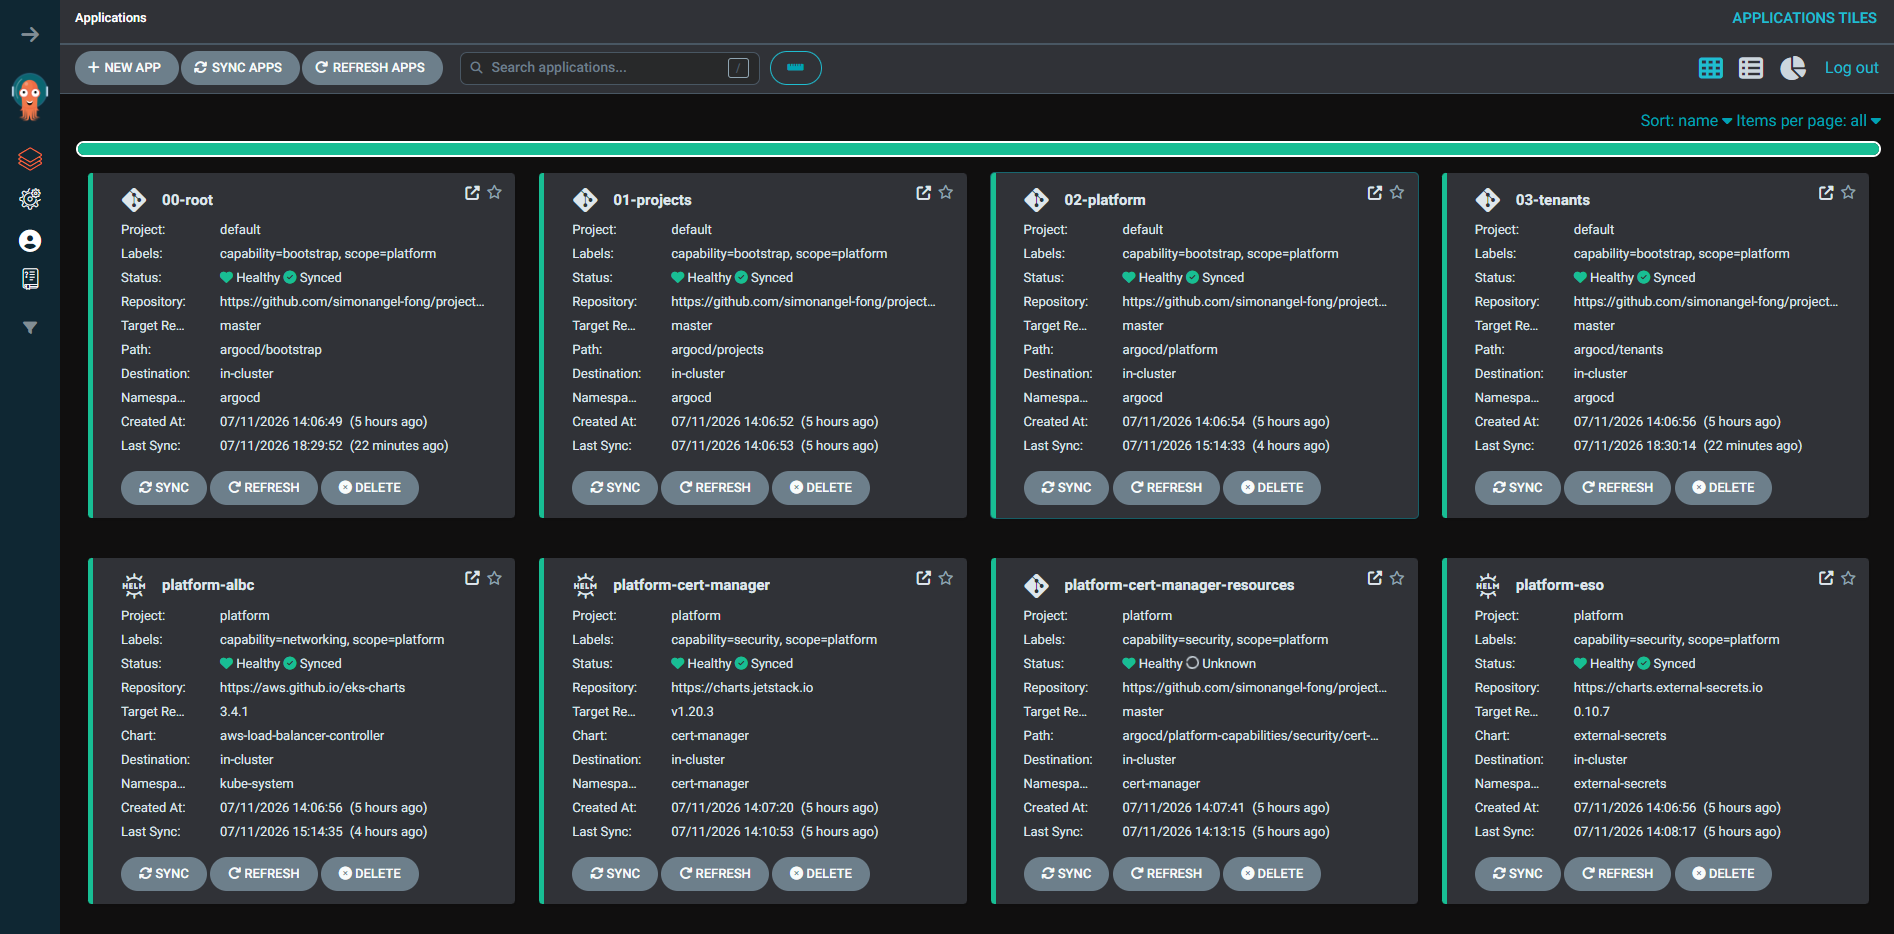
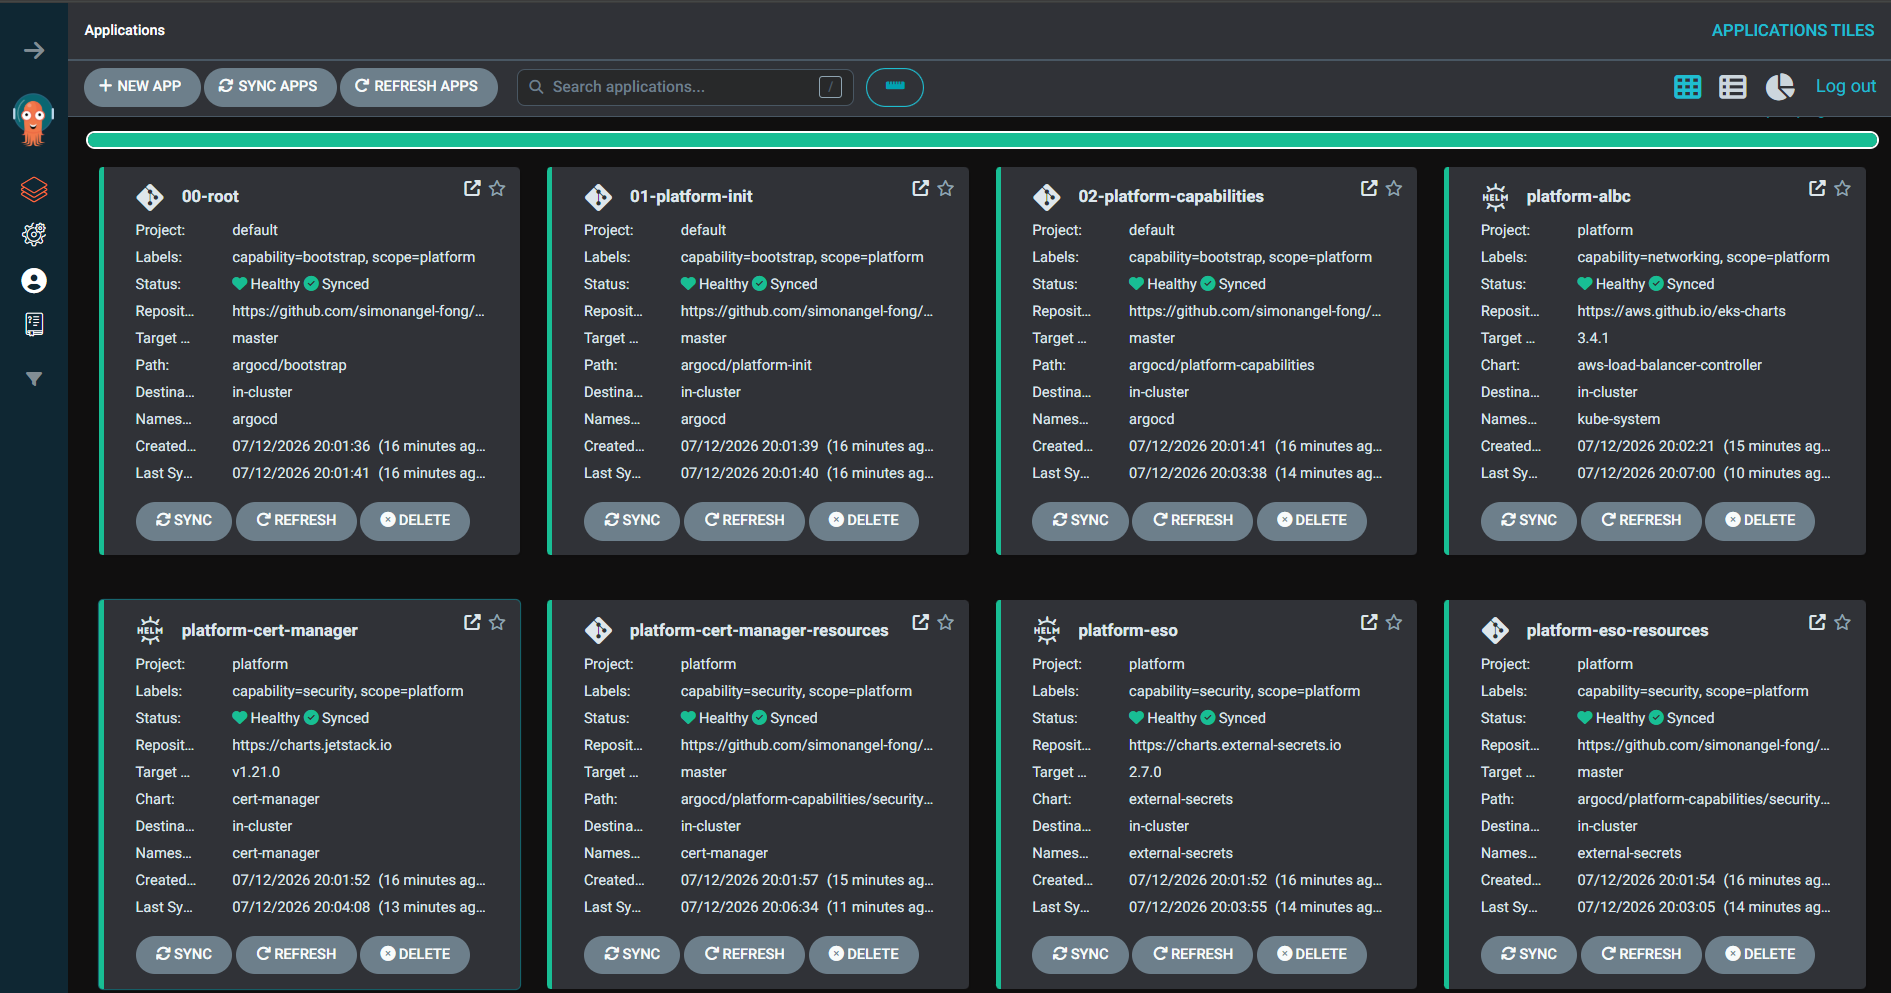
demo: team a, team b

diff --git a/docs/dev/03-capabilities.md b/docs/dev/03-capabilities.md
@@ -13,23 +13,54 @@
 ## Compute
 
 ```sh
+kubectl get nodepool
+# NAME       NODECLASS   NODES   READY   AGE
+# database   database    0       True    17m
+# general    general     1       True    17m
+# gpu        gpu         0       True    17m
 
+kubectl get ec2nodeclass
+# NAME       READY   AGE
+# database   True    17m
+# general    True    17m
+# gpu        True    17m
+
+kubectl get nodeclaim
+# NAME            TYPE        CAPACITY    ZONE            NODE                                           READY   AGE
+# general-jdtxw   m5a.large   on-demand   ca-central-1b   ip-10-0-11-205.ca-central-1.compute.internal   True    17m
+
+kubectl get nodes -L workload-class,karpenter.sh/nodepool,node.kubernetes.io/instance-type
+# NAME                                           STATUS   ROLES    AGE   VERSION               WORKLOAD-CLASS   NODEPOOL   INSTANCE-TYPE
+# ip-10-0-10-139.ca-central-1.compute.internal   Ready    <none>   32m   v1.36.2-eks-8f14419   platform                    t3.medium
+# ip-10-0-11-205.ca-central-1.compute.internal   Ready    <none>   17m   v1.36.2-eks-8f14419   general          general    m5a.large
+# ip-10-0-11-99.ca-central-1.compute.internal    Ready    <none>   32m   v1.36.2-eks-8f14419   platform                    t3.medium
 ```
+
+![compute](../img/argocd_compute.png)
 
 ---
 
 ## Storage
 
 ```sh
+kubectl get storageclass
+# NAME            PROVISIONER             RECLAIMPOLICY   VOLUMEBINDINGMODE      ALLOWVOLUMEEXPANSION   AGE
+# gp2             kubernetes.io/aws-ebs   Delete          WaitForFirstConsumer   false                  35m
+# gp3 (default)   ebs.csi.aws.com         Delete          WaitForFirstConsumer   true                   19m
+# gp3-iops        ebs.csi.aws.com         Retain          WaitForFirstConsumer   true                   19m
 
 ```
+
+![storage](../img/argocd_storage.png)
 
 ---
 
 ## Networking
 
 ```sh
-
+kubectl get gateway,httproute -A
+NAMESPACE       NAME                                              CLASS   ADDRESS                                                                PROGRAMMED   AGE
+istio-ingress   gateway.gateway.networking.k8s.io/istio-ingress   istio   multi-tenant-eks-dev-1d7dce920110640c.elb.ca-central-1.amazonaws.com   True         15m
 ```
 
 ---